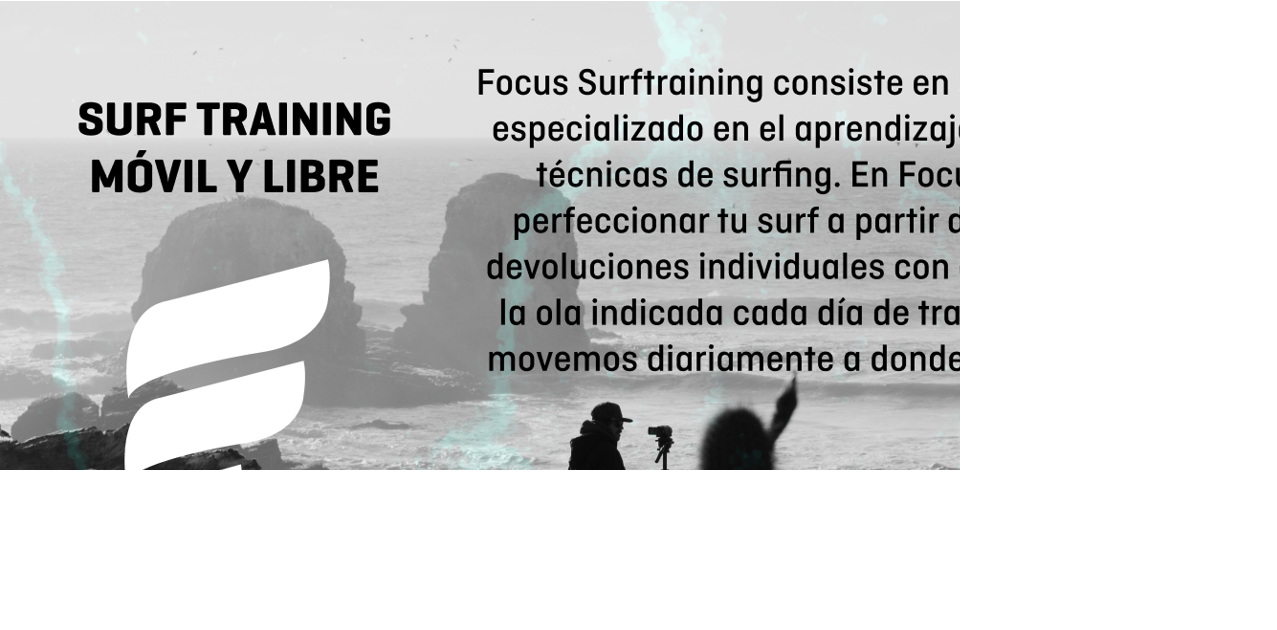
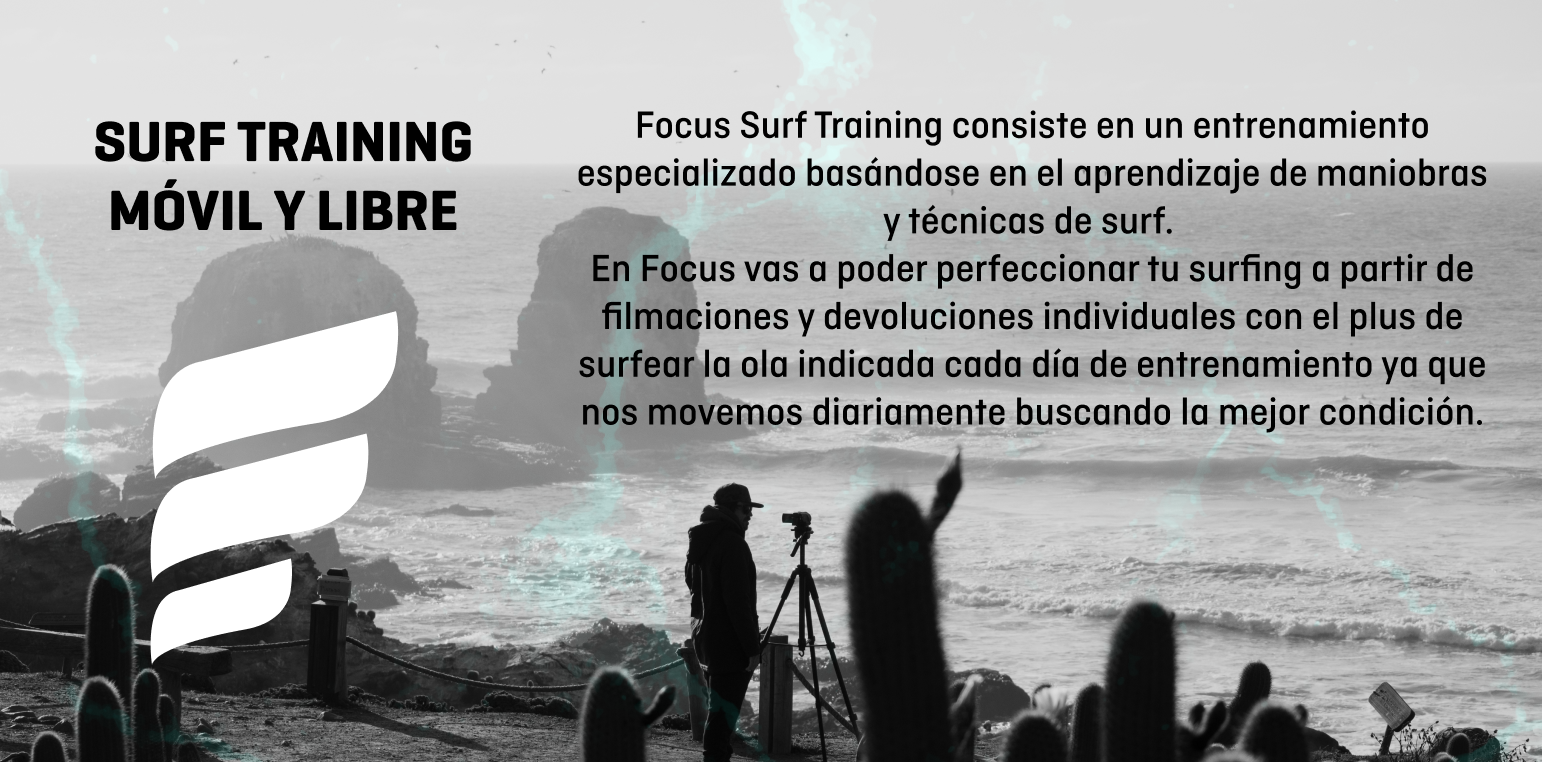
Cambio texto de surfcoach

diff --git a/index.html b/index.html
@@ -55,7 +55,7 @@
         </div>
         <div class="Contenedor">
             <div class="image-container2">
-                <img src="Imagenes/Inicio3.png" alt="Foton">
+                <img src="Imagenes/Inicio4.png" alt="Foton">
                 <a href="https://wa.me/+5492234386243" class="boton-inscribirse">
                     <img src="Imagenes/Boton_Inscribirse.png" alt="incribite">
                 </a>                                   
